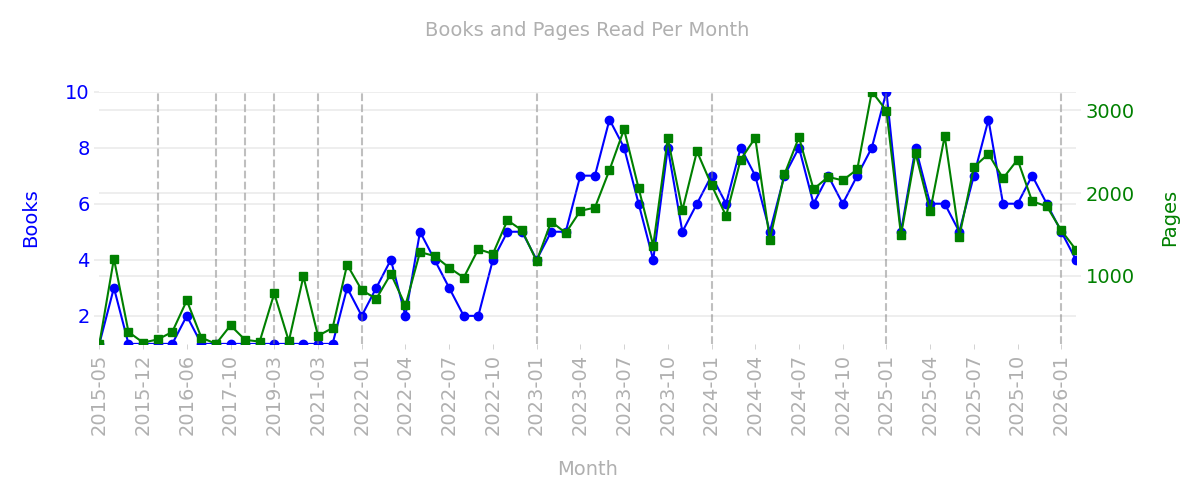
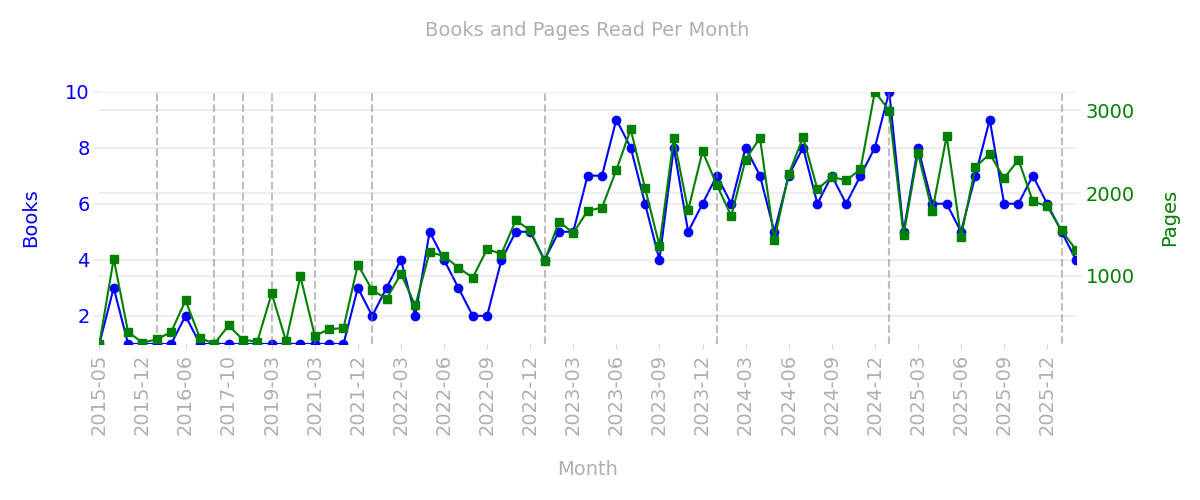
stats per year

Changed region(s): [[0.0925, 0.18, 0.8942, 0.69], [0.0925, 0.72, 0.8942, 0.87], [0.0925, 0.78, 0.185, 0.81]]

diff --git a/app/utils.py b/app/utils.py
@@ -175,6 +175,9 @@ def generate_statistics():
     books_per_month = defaultdict(int)
     pages_per_month = defaultdict(int)
 
+    books_per_year = defaultdict(int)
+    pages_per_year = defaultdict(int)
+
     for md_file in Path('Library').glob('*.md'):
         content = md_file.read_text(encoding='utf-8')
 
@@ -183,11 +186,14 @@ def generate_statistics():
             frontmatter = content[3:frontmatter_end]
 
             month_finished = ""
+            year_finished = ""
             pages = 0
 
             for line in frontmatter.split('\n'):
                 if line.startswith('month_finished:'):
                     month_finished = line.split('month_finished:')[1].strip().strip('"')
+                if line.startswith('year_finished:'):
+                    year_finished = int(line.split('year_finished:')[1].strip())
                 elif line.startswith('pages:'):
                     try:
                         pages = int(float(line.split('pages:')[1].strip()))
@@ -198,10 +204,20 @@ def generate_statistics():
                 books_per_month[month_finished] += 1
                 pages_per_month[month_finished] += pages
 
+            if year_finished:
+                books_per_year[year_finished] += 1
+                pages_per_year[year_finished] += pages
+
     # Sort by month
     months = sorted(books_per_month.keys())
     book_counts = [books_per_month[m] for m in months]
     page_counts = [pages_per_month[m] for m in months]
+
+    # Sort by year
+    years = sorted(books_per_year.keys())
+    book_counts_year = [books_per_year[y] for y in years]
+    page_counts_year = [pages_per_year[y] for y in years]
+    years = [str(y) for y in sorted(books_per_year.keys())]
 
     # Create Views folder
     views_dir = Path('Views')
@@ -233,13 +249,36 @@ def generate_statistics():
     plt.savefig(views_dir / 'books_pages_per_month.png')
     plt.close()
 
+    # Dual axis chart: Books and Pages per year
+    fig, ax1 = plt.subplots(figsize=(12, 5))
 
+    # Books on left axis
+    ax1.plot(years, book_counts_year, marker='o', color='blue', label='Books')
+    ax1.set_xlabel('Year')
+    ax1.set_ylabel('Books', color='blue')
+    ax1.tick_params(axis='y', labelcolor='blue')
+
+    # Pages on right axis
+    ax2 = ax1.twinx()
+    ax2.plot(years, page_counts_year, marker='s', color='green', label='Pages')
+    ax2.set_ylabel('Pages', color='green')
+    ax2.tick_params(axis='y', labelcolor='green')
+
+    plt.title('Books and Pages Read Per Year')
+    ax1.set_xticks(range(0, len(years), 1))
+    ax1.set_xticklabels([years[i] for i in range(0, len(years), 1)], rotation=90)
+    plt.tight_layout()
+    plt.savefig(views_dir / 'books_pages_per_year.png')
+    plt.close()
 
     # Create statistics.md
     md_content = """# Reading Statistics
 
 ## Books and Pages Per Month
 ![[Views/books_pages_per_month.png]]
+
+## Books and Pages Per Year
+![[Views/books_pages_per_year.png]]
 
 """
 

diff --git a/app/app.py b/app/app.py
@@ -21,11 +21,9 @@ def get():
     return Titled("Book Manager",
                   Div(
                       H2("What would you like to do?"),
-                      A("Add New Book", href="/add"),
-                      Br(),
-                      A("View/Edit Books", href="/books"),
-                      Br(),
-                      A("View stats", href="/stats")
+                      Div(A("Add New Book", href="/add", role="button"), style="margin-bottom:10px;"),
+                      Div(A("View/Edit Books", href="/books", role="button"), style="margin-bottom:10px;"),
+                      Div(A("View stats", href="/stats", role="button"), style="margin-bottom:10px;"),
                   )
                   )
 
@@ -440,10 +438,12 @@ def get(message: str = ""):
                   popup,
                   Script(
                       "setTimeout(() => document.getElementById('popup')?.style.display='none', 5000)") if message else "",
-                  A("← Back to Home", href="/"),
-                  Br(),
-                  A("Update stats", href="/update-stats"),
+                  Div(A("← Back to Home", href="/", role="button"), style="margin-bottom:10px;"),
+                  Div(A("Update stats", href="/update-stats", role="button"), style="margin-bottom:10px;"),
                   H2("Books and Pages Per Month"),
-                  Img(src="/views/books_pages_per_month.png"))
+                  Img(src="/views/books_pages_per_month.png"),
+                  H2("Books and Pages Per Year"),
+                  Img(src="/views/books_pages_per_year.png"))
 
-    serve()
+
+serve()

diff --git a/Library/A Curious History of Sex.md b/Library/A Curious History of Sex.md
@@ -9,8 +9,8 @@ year_published: 2020.0
 date_started: ""
 date_finished: "nan"
 
-year_finished: 0
-month_finished: ""
+year_finished: 2021
+month_finished: "2021-08"
 
 rating: 5
 format: ""

diff --git a/Views/statistics.md b/Views/statistics.md
@@ -3,3 +3,6 @@
 ## Books and Pages Per Month
 ![[Views/books_pages_per_month.png]]
 
+## Books and Pages Per Year
+![[Views/books_pages_per_year.png]]
+
